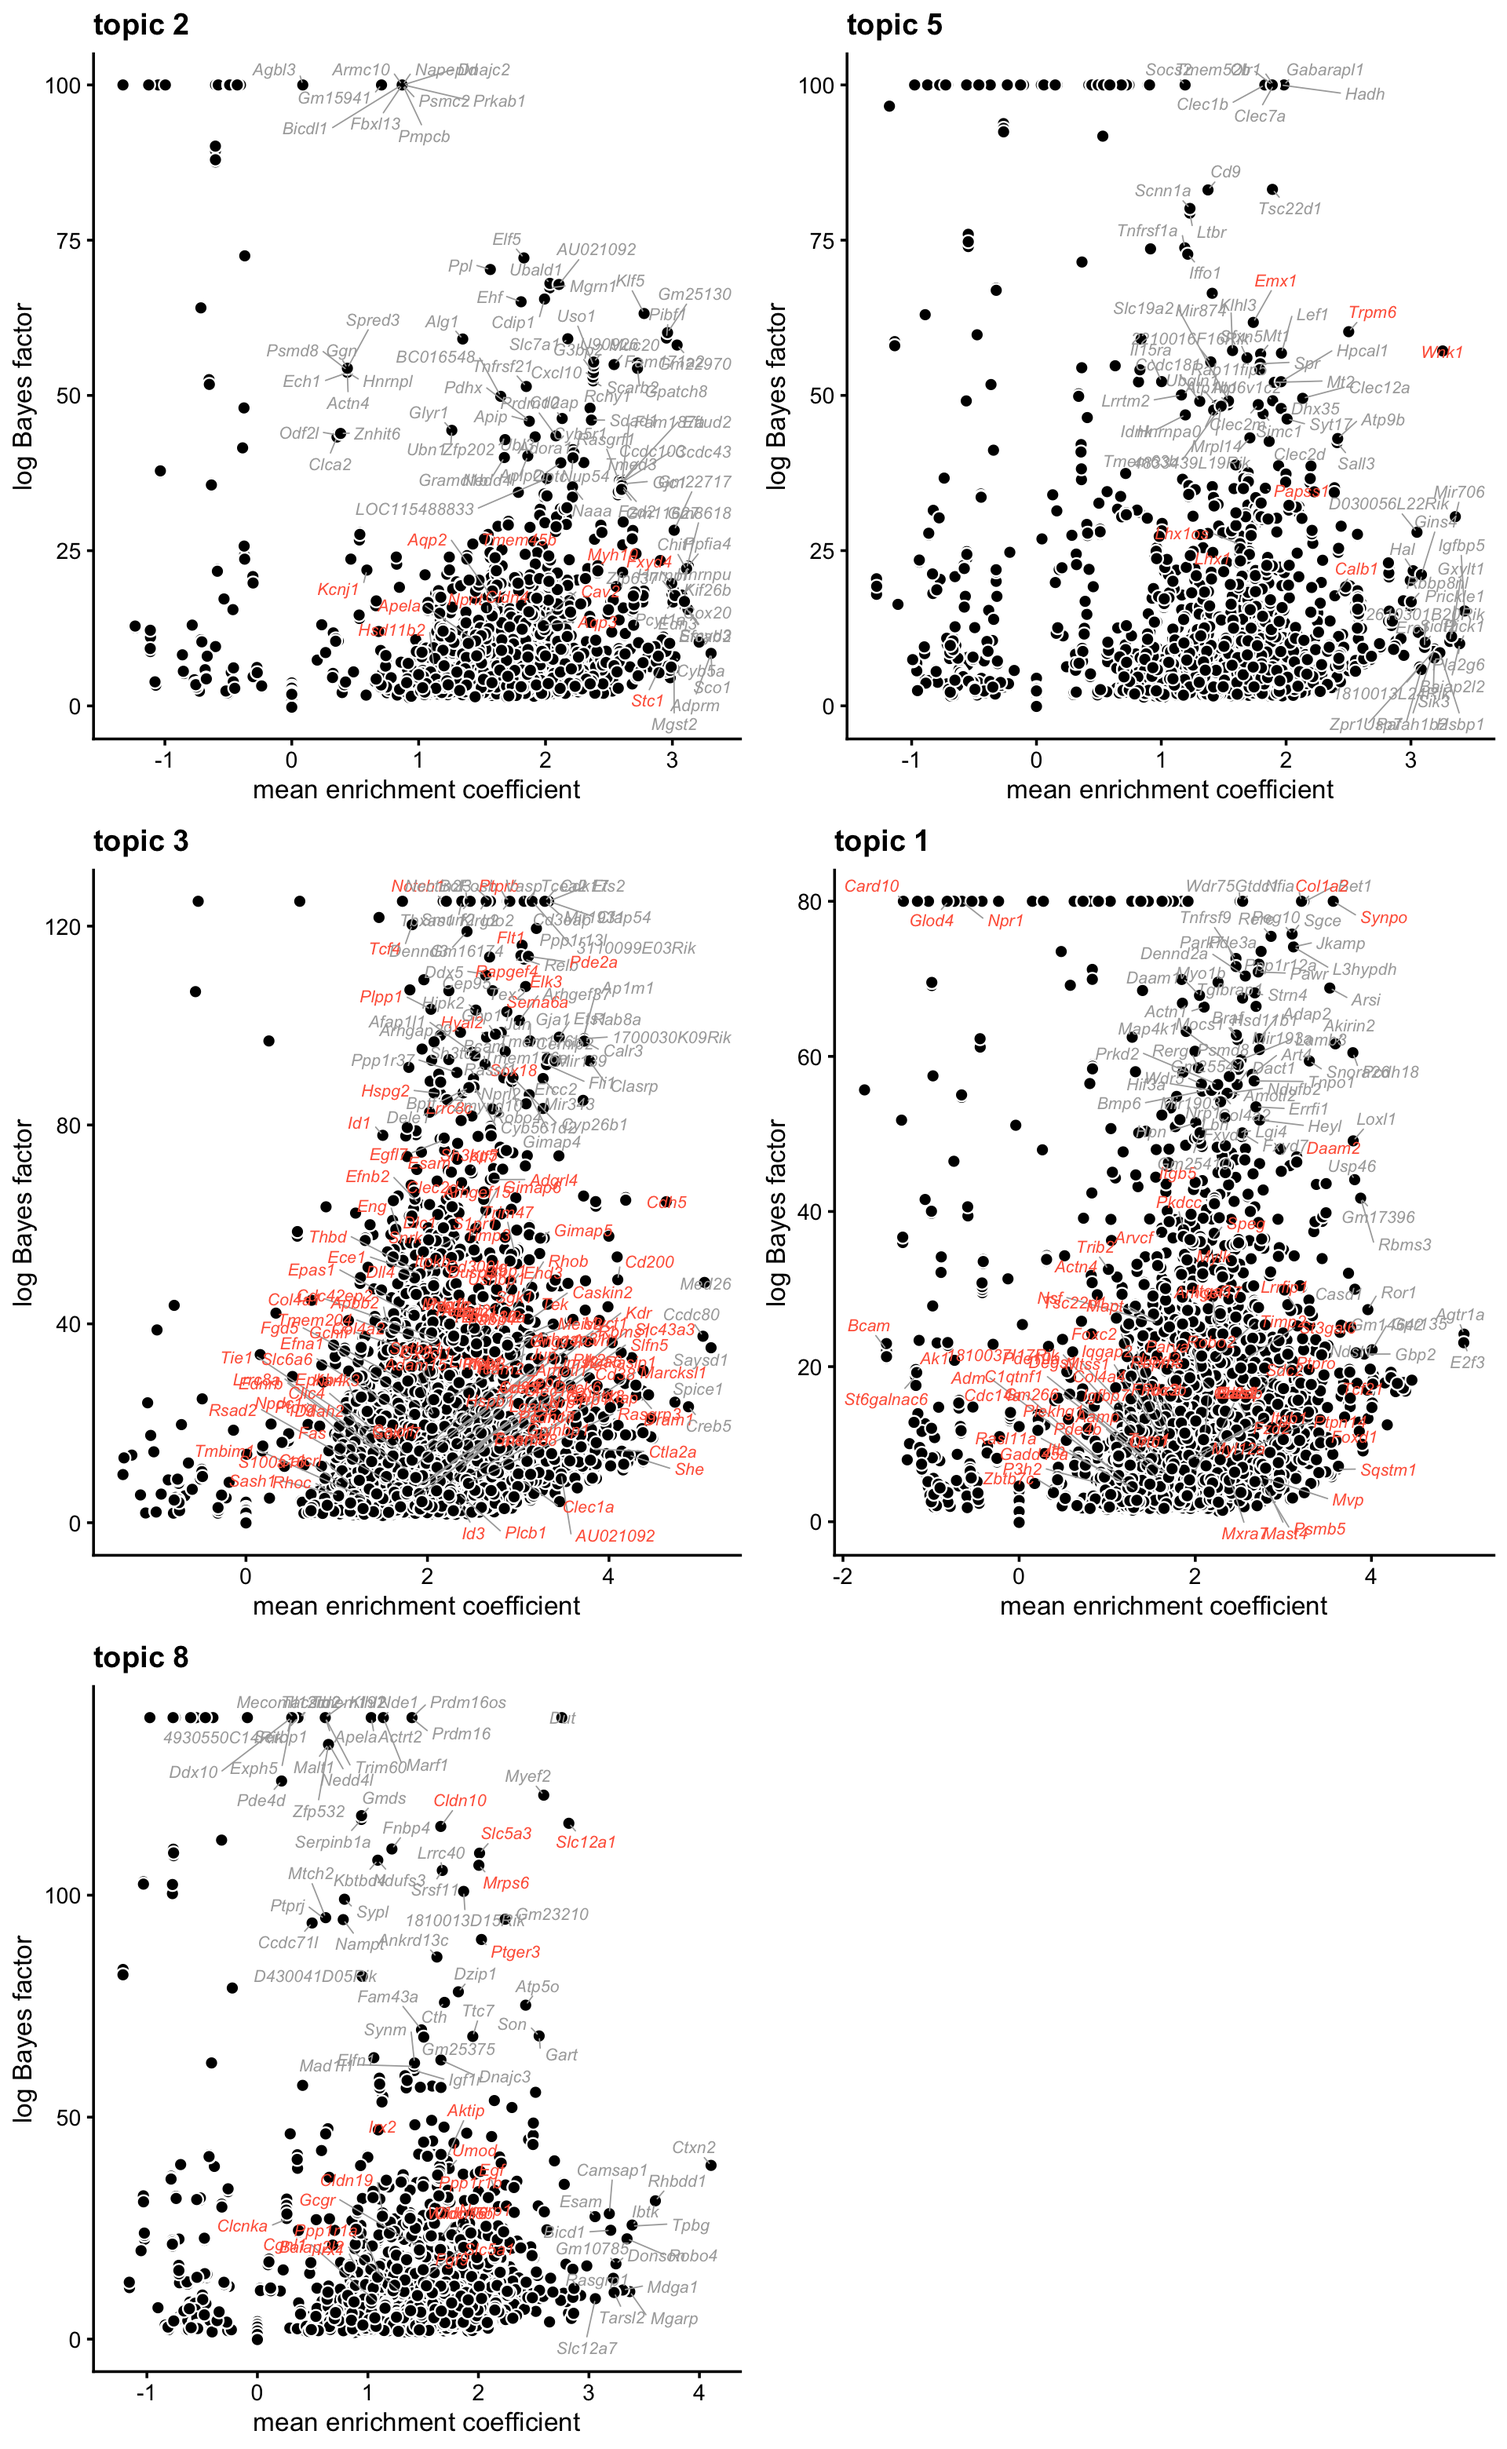
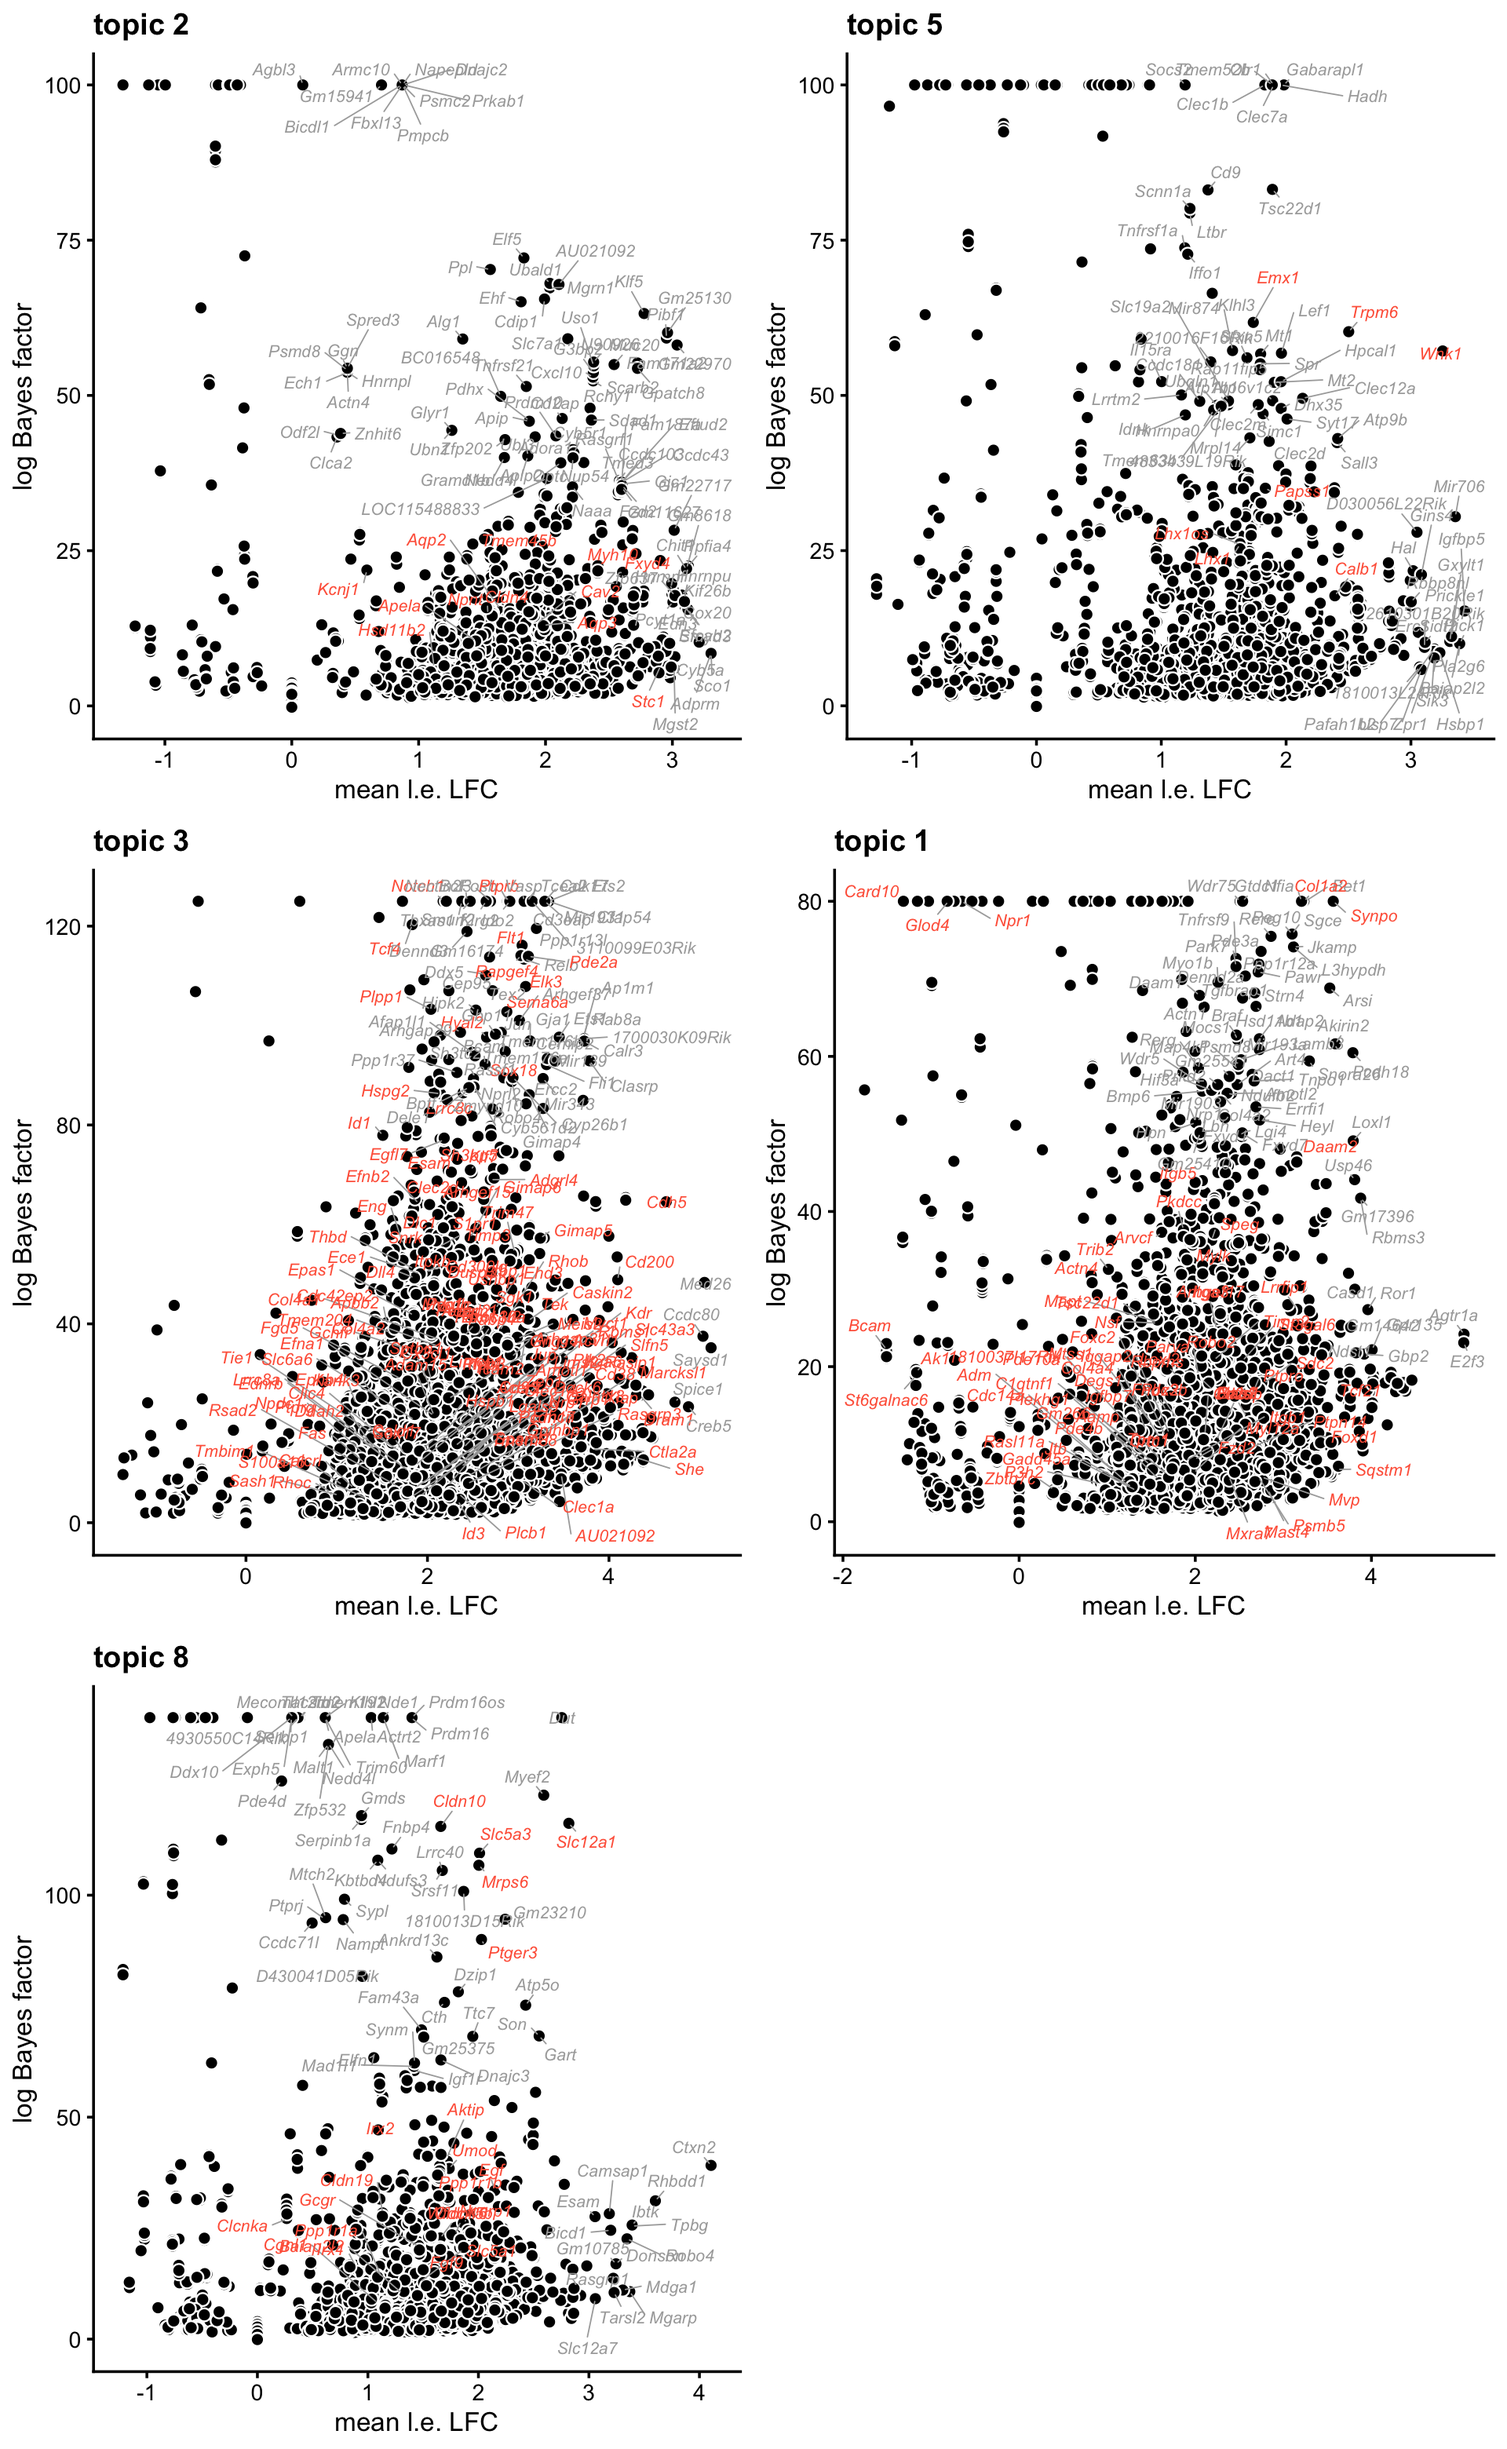
Added volcano plots for remaining topics to cusanovich2018_kidney_k10 analysis.

diff --git a/docs/cusanovich2018_kidney_k10.html b/docs/cusanovich2018_kidney_k10.html
@@ -376,7 +376,7 @@ class="glyphicon glyphicon-ok text-success" aria-hidden="true"></span>
 <div class="tab-content">
 <div id="summary" class="tab-pane fade in active">
 <p>
-<strong>Last updated:</strong> 2022-10-03
+<strong>Last updated:</strong> 2022-10-04
 </p>
 <p>
 <strong>Checks:</strong> <span
@@ -507,15 +507,15 @@ project makes it easier to run your code on other machines.</p>
 <div class="panel panel-default">
 <div class="panel-heading">
 <p class="panel-title">
-<a data-toggle="collapse" data-parent="#workflowr-checks" href="#strongRepositoryversionstrongahrefhttpsgithubcomstephenslabscATACseqtopicstreedade9f6dd882ff30c82020373fe3a5b6104999c9targetblankdade9f6a">
+<a data-toggle="collapse" data-parent="#workflowr-checks" href="#strongRepositoryversionstrongahrefhttpsgithubcomstephenslabscATACseqtopicstreedd40726398ded849d21b6b0fbf75ddb5bc1167a2targetblankdd40726a">
 <span class="glyphicon glyphicon-ok text-success"
 aria-hidden="true"></span> <strong>Repository version:</strong>
-<a href="https://github.com/stephenslab/scATACseq-topics/tree/dade9f6dd882ff30c82020373fe3a5b6104999c9" target="_blank">dade9f6</a>
+<a href="https://github.com/stephenslab/scATACseq-topics/tree/dd40726398ded849d21b6b0fbf75ddb5bc1167a2" target="_blank">dd40726</a>
 </a>
 </p>
 </div>
 <div
[2 lines of base64/hex data omitted]
 class="panel-collapse collapse">
 <div class="panel-body">
 <p>
@@ -525,7 +525,7 @@ reproducibility.
 </p>
 <p>
 The results in this page were generated with repository version
-<a href="https://github.com/stephenslab/scATACseq-topics/tree/dade9f6dd882ff30c82020373fe3a5b6104999c9" target="_blank">dade9f6</a>.
+<a href="https://github.com/stephenslab/scATACseq-topics/tree/dd40726398ded849d21b6b0fbf75ddb5bc1167a2" target="_blank">dd40726</a>.
 See the <em>Past versions</em> tab to see a history of the changes made
 to the R Markdown and HTML files.
 </p>
@@ -561,6 +561,10 @@ Untracked files:
     Untracked:  output/Buenrostro_2018/binarized/filtered_peaks/Buenrostro_2018_binarized_filtered.RData
     Untracked:  plots/
     Untracked:  scripts/fit-buenrostro-2018-k=8.rds
+    Untracked:  scripts/gene_enrich_cusanovich2018_kidney_k10.csv
+
+Unstaged changes:
+    Modified:   scripts/compile_de_gene_table.R
 
 </code></pre>
 <p>
@@ -607,6 +611,40 @@ Message
 </tr>
 </thead>
 <tbody>
+<tr>
+<td>
+Rmd
+</td>
+<td>
+<a href="https://github.com/stephenslab/scATACseq-topics/blob/dd40726398ded849d21b6b0fbf75ddb5bc1167a2/analysis/cusanovich2018_kidney_k10.Rmd" target="_blank">dd40726</a>
+</td>
+<td>
+Peter Carbonetto
+</td>
+<td>
+2022-10-04
+</td>
+<td>
+workflowr::wflow_publish("analysis/cusanovich2018_kidney_k10.Rmd",
+</td>
+</tr>
+<tr>
+<td>
+html
+</td>
+<td>
+<a href="https://rawcdn.githack.com/stephenslab/scATACseq-topics/7419f5c76dbe89b325b2c7e8295aad14fe8f243b/docs/cusanovich2018_kidney_k10.html" target="_blank">7419f5c</a>
+</td>
+<td>
+Peter Carbonetto
+</td>
+<td>
+2022-10-03
+</td>
+<td>
+Added label counts to cusanovich2018_kidney_k10 analysis.
+</td>
+</tr>
 <tr>
 <td>
 Rmd
@@ -887,7 +925,9 @@ workflowr::wflow_publish("analysis/cusanovich2018_kidney_k10.Rmd")
 </div>
 </div>
 </div>
-<p><em>Add overview of the analysis here.</em></p>
+<p>Here we examine the structure inferred from the topic model fit to
+the Mouse sci-ATAC-seq Atlas kidney cells, with <span
+class="math inline">\(K = 10\)</span> topics.</p>
 <p>Load the packages used in the analysis below.</p>
 <pre class="r"><code>library(Matrix)
 library(pathways)
@@ -1082,7 +1122,11 @@ gene_info &lt;- subset(gene_info,is.element(Ensembl,ids))
 rownames(gene_info) &lt;- gene_info$Ensembl
 gene_info &lt;- gene_info[ids,]
 genes     &lt;- gene_info$Symbol</code></pre>
-<p><em>Add text here.</em></p>
+<p>These next few volcano plots show, for each gene tested for
+enrichment, the mean LFC on the x-axis against the logBF for enrichment
+on the y-axis. Marker genes identified in the <a
+href="https://doi.org/10.1126/science.aar2131">Park <em>et al</em>
+paper</a> are highlighted in red.</p>
 <pre class="r"><code>k &lt;- 2
 label_genes &lt;- (is.element(genes,cd_genes) &amp; de_gene$logLR[,k] &gt; 4) |
                (de_gene$logLR[,k] &gt; 35 &amp; de_gene$coef[,k] &gt; 0) |
@@ -1157,6 +1201,17 @@ Date
 <tbody>
 <tr>
 <td>
+<a href="https://github.com/stephenslab/scATACseq-topics/blob/7419f5c76dbe89b325b2c7e8295aad14fe8f243b/docs/figure/cusanovich2018_kidney_k10.Rmd/volcano-plots-1-1.png" target="_blank">7419f5c</a>
+</td>
+<td>
+Peter Carbonetto
+</td>
+<td>
+2022-10-03
+</td>
+</tr>
+<tr>
+<td>
 <a href="https://github.com/stephenslab/scATACseq-topics/blob/648fbbc7255adfa4b6080eaab2a00c01f0377542/docs/figure/cusanovich2018_kidney_k10.Rmd/volcano-plots-1-1.png" target="_blank">648fbbc</a>
 </td>
 <td>
@@ -1181,7 +1236,10 @@ Peter Carbonetto
 </table>
 </div>
 </div>
-<p><em>Add text here.</em></p>
+<p>These next two volcano plots also highlight, in blue, the marker
+genes identified in <a
+href="https://doi.org/10.1007/s12079-022-00685-z">Wu <em>et al</em></a>
+for the S1 and S3 segments of the proximal tubule.</p>
 <pre class="r"><code>k &lt;- 9
 label_genes &lt;- (is.element(genes,c(pt_genes,S1_genes)) &amp;
                 de_gene$logLR[,k] &gt; 4) |
@@ -1232,6 +1290,17 @@ Date
 <tbody>
 <tr>
 <td>
+<a href="https://github.com/stephenslab/scATACseq-topics/blob/7419f5c76dbe89b325b2c7e8295aad14fe8f243b/docs/figure/cusanovich2018_kidney_k10.Rmd/volcano-plots-2-1.png" target="_blank">7419f5c</a>
+</td>
+<td>
+Peter Carbonetto
+</td>
+<td>
+2022-10-03
+</td>
+</tr>
+<tr>
+<td>
 <a href="https://github.com/stephenslab/scATACseq-topics/blob/648fbbc7255adfa4b6080eaab2a00c01f0377542/docs/figure/cusanovich2018_kidney_k10.Rmd/volcano-plots-2-1.png" target="_blank">648fbbc</a>
 </td>
 <td>
@@ -1256,15 +1325,35 @@ Peter Carbonetto
 </table>
 </div>
 </div>
+<p>These volcano plots summarize the gene enrichment results for the
+remaining topics.</p>
 <p>To do:</p>
 <ul>
-<li><p>Put together the Structure plots for the paper.</p></li>
-<li><p>Change x-axis label in volcano plots.</p></li>
 <li><p>Compile enrichment results into tables.</p></li>
-<li><p>Create volcano plots for remaining topics.</p></li>
-<li><p>Put together the volcano plots for paper.</p></li>
+<li><p>Create volcano plots for paper.</p></li>
 </ul>
-<pre class="r"><code># Add remaining volcano plots here.</code></pre>
+<pre class="r"><code>k &lt;- 4
+label_genes &lt;- (de_gene$logLR[,k] &gt; 40 &amp; de_gene$coef[,k] &gt; 1.75) |
+               (de_gene$logLR[,k] &gt; 10 &amp; de_gene$coef[,k] &gt; 2)
+k4_genes &lt;- genes
+k4_genes[!label_genes] &lt;- &quot;&quot;
+p4 &lt;- volcano_plot_enrich(de_gene,k = 4,labels = k4_genes)
+k &lt;- 6
+label_genes &lt;- (de_gene$logLR[,k] &gt; 20) |
+               (de_gene$logLR[,k] &gt; 10 &amp; de_gene$coef[,k] &gt; 2)
+k6_genes &lt;- genes
+k6_genes[!label_genes] &lt;- &quot;&quot;
+p6 &lt;- volcano_plot_enrich(de_gene,k = 6,labels = k6_genes,ymax = 40)
+k &lt;- 7
+label_genes &lt;- (de_gene$logLR[,k] &gt; 75 &amp; de_gene$coef[,k] &gt; 0) |
+               (de_gene$logLR[,k] &gt; 10 &amp; de_gene$coef[,k] &gt; 1.75) |
+               (grepl(&quot;Zfp&quot;,gene_info$Symbol,fixed = TRUE) &amp;
+                de_gene$logLR[,k] &gt; 15)
+k7_genes &lt;- genes
+k7_genes[!label_genes] &lt;- &quot;&quot;
+p7 &lt;- volcano_plot_enrich(de_gene,k = 7,labels = k7_genes,ymax = 200)
+plot_grid(p4,p6,p7,nrow = 2,ncol = 2)</code></pre>
+<p><img src="figure/cusanovich2018_kidney_k10.Rmd/volcano-plots-3-1.png" width="960" style="display: block; margin: auto;" /></p>
 <p>Diagram from <a href="https://www.osmosis.org">osmosis.com</a>:</p>
 <div class="figure">
 <img src="kidney.jpg" alt="" />
